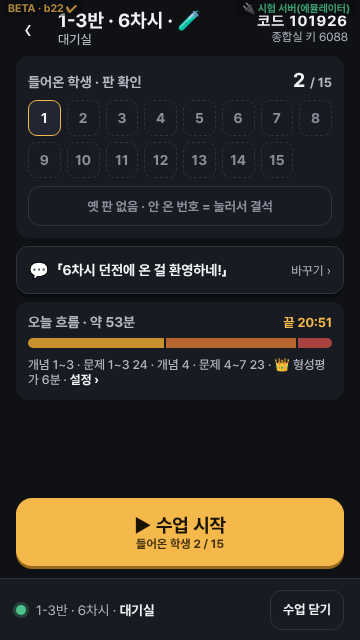
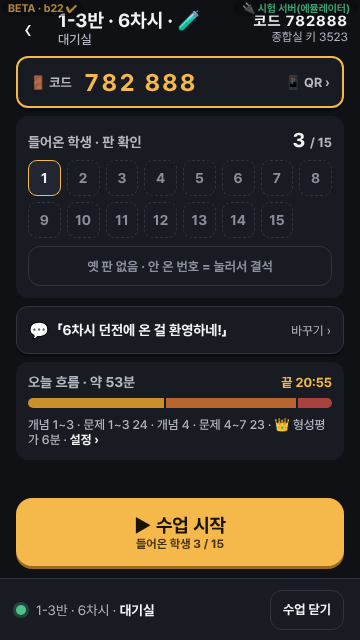
b23 #138 덧붙임: 교사 폰 대기실 🚪 코드 크게 + 📱 QR 시트(?join=코드 · 교실 TV 주소)
- 교사 폰 대기실 맨 위 「🚪 코드 ### ###」(금빛 테 · 52) → 누르면 QR 시트: QR(주소 ?join=코드) · 코드 크게 · 안내 두 줄 · 🖥 교실 TV 주소
- ?join=코드: 로그인한 폰 = 바로 그 수업 대기실 · 처음 폰 = 반 · 번호 로그인 / 가입 뒤 그 수업 · TV 화면은 원래대로(코드 + QR)
- 시험: e2e gate ③(새 폰 ?join= → 가입 → 대기실 3명) · b8(대기실 360 × 640 · 390 × 844 스크롤 0) · server · tabs · browsers 오류 0

Claude-Session: https://claude.ai/code/session_014JJv1kfRHM8SAjsHDCgfJ5

diff --git a/src/ui/teacher/TLive.svelte b/src/ui/teacher/TLive.svelte
@@ -7,6 +7,7 @@
   import { hhmm } from '../../school/bells';
   import { COLOR, groups, kindOf, minOf, short, total } from './flow';
   import { liveRoom } from '../room.svelte';
+  import QR from '../QR.svelte';
   import Sheet from '../battle/Sheet.svelte';
 
   // ⑬ 대기실 · ⑭ 리모컨 (#119 · DECISIONS 「대기실 확정」 「리모컨 칸 고정」 「도구 두 줄 맞춤」) — 같은 틀: 위 막대 · 가운데(스크롤 없음) · 주요 단추 68 · 수업 중 막대 62
@@ -63,7 +64,11 @@
   const doorAsk = $derived(!!R?.state.door);
 
   // ── 시트 ──
-  let sheet = $state<'' | 'bubble' | 'set' | 'gift' | 'ask'>('');
+  let sheet = $state<'' | 'bubble' | 'set' | 'gift' | 'ask' | 'qr'>('');
+  // 🚪 입장 (#138 ③): 코드 크게 + QR(주소 ?join=코드 · 로그인한 폰은 바로 · 아니면 로그인 뒤 그 수업) · 교실 TV 주소
+  const site = `${location.origin}${import.meta.env.BASE_URL}`;
+  const joinUrl = $derived(`${site}?join=${encodeURIComponent(code)}`);
+  const spaced = (c: string) => c.replace(/^(\d{3})(\d{3})$/, '$1 $2');
   let bub = $state('');
   const QUICK = $derived([`${L.no}차시 던전에 온 걸 환영하네!`, '오늘 목표 = 보스 쓰러뜨리기!', '늦게 온 친구는 코드 보고 들어와']);
   // 💎 선물
@@ -95,6 +100,7 @@
   {#if isLobby(R)}
     <!-- ⑬ 대기실 -->
     <div class="mid lob">
+      <button type="button" class="join" onclick={() => (sheet = 'qr')} aria-label="수업 코드 {code} · QR 보기"><span>🚪 코드</span><b>{spaced(code)}</b><em>📱 QR ›</em></button>
       <div class="card">
         <div class="hd"><span class="lab">들어온 학생 · 판 확인</span><b class="cnt">{ids.length} <small>/ {expected.length}</small></b></div>
         <div class="nums" role="group" aria-label="번호 칸">
@@ -184,6 +190,13 @@
       <div class="ggrid">{#each ids as u (u)}<button type="button" class="gn" class:on={!!picked[u]} aria-pressed={!!picked[u]} onclick={() => (picked = { ...picked, [u]: !picked[u] })}><b>{numOf(u)}</b>{nameOf(u).split(' ')[1] ?? ''}</button>{/each}</div>
       <p class="gnote">하루 한도와 상관없이 바로 들어가요 · {pickN && pickN === ids.length ? 'TV 에 「🎁 선생님 선물! 모두」' : '받은 학생 폰에만 알림 (TV 없음)'}</p>
     </Sheet>
+  {:else if sheet === 'qr'}
+    <Sheet onclose={() => (sheet = '')} mainText="닫기">
+      {#snippet title()}🚪 수업 입장{/snippet}
+      <div class="qrbox"><QR text={joinUrl} size={220} /><b class="qcode">{spaced(code)}</b>
+        <p>휴대폰 카메라로 QR → 로그인한 폰은 바로 대기실 · 처음이면 반 · 번호로 로그인 뒤 들어와요<br />QR 이 안 되면 캠프 「🚪 코드」에 위 6자리</p>
+        <p class="tvu">🖥 교실 TV 주소 · <b>{site}?role=hall</b></p></div>
+    </Sheet>
   {:else if sheet === 'ask'}
     <div class="askbg" role="presentation" onclick={() => (sheet = '')}></div>
     <div class="ask" role="alertdialog" aria-modal="true" aria-label="정말?">
@@ -196,6 +209,11 @@
 {/if}
 
 <style>
+  .join { flex: none; display: flex; align-items: center; gap: var(--s3); min-height: 52px; padding: 0 var(--s3); border-radius: var(--r); border: 2px solid var(--accent); background: var(--surface); color: var(--text); font: inherit; box-shadow: 0 3px 0 var(--press-sh); }
+  .join span { font-size: 13px; font-weight: 700; color: var(--text-2); } .join b { flex: 1; text-align: left; font-size: 24px; letter-spacing: 2px; color: var(--accent); font-variant-numeric: tabular-nums; } .join em { font-style: normal; font-size: 13px; font-weight: 700; color: var(--text-2); }
+  .qrbox { display: flex; flex-direction: column; align-items: center; gap: var(--s2); text-align: center; }
+  .qcode { font-size: 34px; letter-spacing: 4px; color: var(--accent); font-variant-numeric: tabular-nums; }
+  .qrbox p { margin: 0; font-size: 14px; color: var(--text-2); line-height: 1.5; } .qrbox .tvu { font-size: 13px; word-break: break-all; } .qrbox .tvu b { color: var(--text); }
   .cnt { font-size: 20px; }
   .cnt small { font-size: 13px; color: var(--text-2); }
   .nums { display: grid; grid-template-columns: repeat(8, minmax(0, 1fr)); gap: 6px; }

diff --git a/src/App.svelte b/src/App.svelte
@@ -47,6 +47,9 @@
   }
   // ⓪ 로그인한 폰 = 그 학생 (반 + 번호) · 아니면 탭마다 따로인 이름표(시험 · 두 탭 체험)
   let login = $state<Pupil | null>(savedLogin(S));
+  // 🚪 QR 입장 (#138 ③): ?join=코드 → 로그인한 폰은 바로 그 수업 · 아니면 로그인 뒤 그 수업
+  const joinCode = (q.get('join') || '').trim();
+  if (joinCode && !role && untrack(() => login)) location.replace(`?role=student&room=${encodeURIComponent(joinCode)}`);
   // 시험 · 두 탭 체험: ?as=1-3:5 = 그 반 · 번호 학생으로 (로그인 없이)
   const asP = (() => { const m = /^(\d-\d):(\d+)$/.exec(q.get('as') || ''); return m ? pupil(m[1] as string, Number(m[2]), S) : null; })();
   const me = untrack(() => (role === 'student' ? asP ? { uid: asP.uid, num: asP.num, nick: asP.name, cls: asP.cls } : (login && !q.get('tab') ? { uid: login.uid, num: login.num, nick: login.name, cls: login.cls } : { ...tabId(), nick: '', cls: '' }) : null));
@@ -76,7 +79,7 @@
   {:else if !role && login}
     {#key campCode}<Camp {S} L={lessonOf(campCode)} code={campCode} pupil={login} />{/key}
   {:else if !role}
-    <Title {S} onin={(p) => (login = p)} />
+    <Title {S} onin={(p) => { login = p; if (joinCode) location.href = `?role=student&room=${encodeURIComponent(joinCode)}`; }} />
   {:else if role === 'dev'}
     <section class="home">
       <h1>모두의 던전 v1.0 테스트</h1>

diff --git a/src/build.ts b/src/build.ts
@@ -1,2 +1,2 @@
 // 판 번호 (테스트 버전 b1 · b2 …) — 바꿀 때 package.json version 도 같이
-export const BUILD = 'b22';
+export const BUILD = 'b23';
